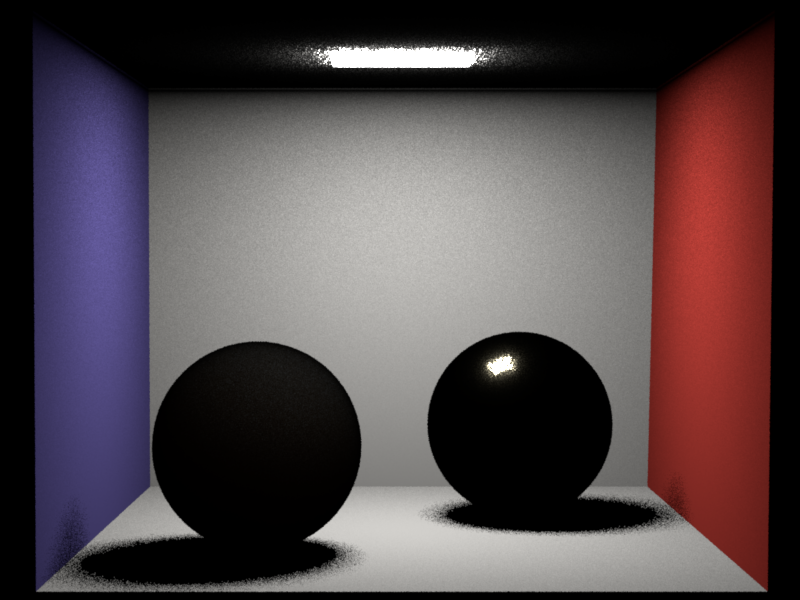
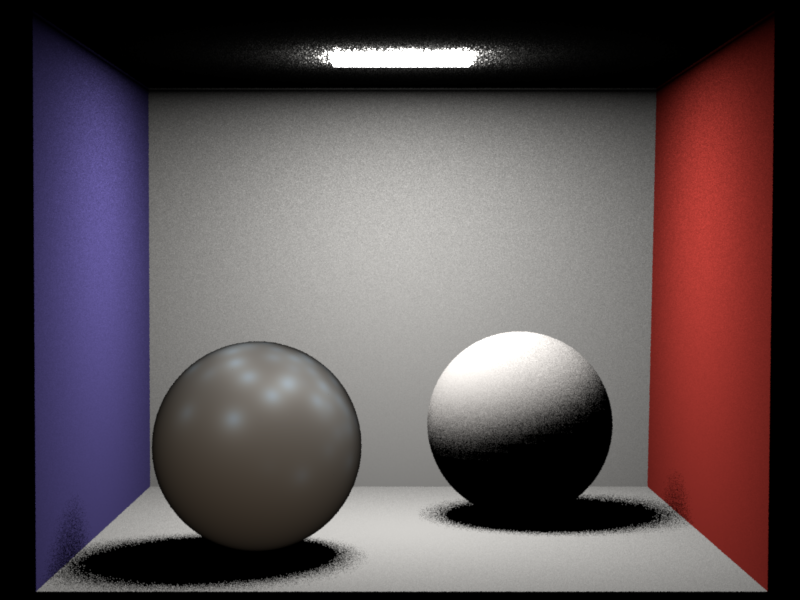
Algún día mataré a Jensen

diff --git a/src/pathtracing.cpp b/src/pathtracing.cpp
@@ -152,7 +152,7 @@ std::vector<Photon> Pth::generateSubsurfaceSamples(const Scene *scene, Sampler *
     {
         u_int32_t nTriangles = mesh->nTriangles();
 
-        for (u_int32_t i = 0; i < nTriangles; i++)
+        for (u_int32_t i = 0; i < nTriangles/10; i++)
         {
             float pdf;
             Point3f p; Normal3f n; Point2f uv;
@@ -185,28 +185,33 @@ void Pth::integrateSubsurface(const Scene *scene,
     
     int N_SAMPLES = 100;
     float photonPdf = 1.0f / photons.size();
+    int taken = 0;
+
     
-    for (int i = 0; i < N_SAMPLES; i++)
+    for (auto &photon : photons)
     {   
         // Choose random photon
-        int randomPhoton = sampler->next1D() * photons.size();
-        auto photon = photons[randomPhoton % photons.size()];
+        //int randomPhoton = sampler->next1D() * photons.size();
+        //auto photon = photons[randomPhoton % photons.size()];
 
         if (photon.radiance == Color3f(0.0f)
             || photon.mesh != state.intersection.mesh)
+            //|| (photon.p - state.intersection.p).norm() > 1.0f)
             continue;
 
         bsdfQuery.pi = photon.p;
         bsdfQuery.ni = state.intersection.toLocal(photon.n);
         bsdfQuery.wi = state.intersection.toLocal(photon.d);
         Color3f f = SSS.eval(bsdfQuery);
-        Color3f radiance = photon.radiance * f;
+        Color3f radiance = photon.radiance;
 
-        contributions += radiance;
+        contributions += radiance * f;
+        taken++;
     }
 
-    contributions = contributions / (N_SAMPLES * photonPdf);            
-    
+    contributions = contributions / (taken > 0 ? taken : 1);           
+    //contributions *= state.intersection.mesh->meshArea();
+
     state.radiance += contributions;
 }
 

diff --git a/src/subsurfaceScattering.cpp b/src/subsurfaceScattering.cpp
@@ -50,6 +50,10 @@ public:
             sigmaS = sigmaT * (1 - g);
             sigmaA = sigmaT - sigmaS;
         }
+
+        // Move mm^-1 to m^-1
+        sigmaA = sigmaA * 1.0f;
+        sigmaS = sigmaS * 1.0f;
     }
 
     /// Evaluate the BRDF model
@@ -72,9 +76,8 @@ public:
             return Color3f(0.0f);
 
         return computeMultipleScattering(bRec) 
-                * m_albedo->eval(bRec.uv) 
-                * Math::absCosTheta (bRec.wo)
-                * scale;
+                * m_albedo->eval(bRec.uv)
+                * Math::absCosTheta(bRec.wo);
     }
   
 
@@ -131,7 +134,7 @@ public:
         float r2 = Math::pow2(r);
 
         // Compute isotropic phase function
-        Color3f _sigmaS = (1 - g) * sigmaS;
+        Color3f _sigmaS = sigmaS;
         Color3f _sigmaT = _sigmaS + sigmaA;
         Color3f _alpha = _sigmaS / _sigmaT;
 
@@ -167,7 +170,8 @@ public:
         float r = (bRec.po - bRec.pi).norm();
         float eta = etaT;
 
-        Color3f Rd = betterAlternative(r);
+        Color3f Rd = dipoleDiffusionAproximation(r);
+        //std::cout << Rd.toString() + ", " + std::to_string(r) << std::endl;
 
         float cosWi = Math::absCos(bRec.wi, bRec.ni);
         float cosWo = Math::cosTheta(bRec.wo);
@@ -229,7 +233,7 @@ public:
 
     Color3f betterAlternative (float r) const
     {
-        Color3f sigmap_s = (1 - g) * sigmaS;
+        Color3f sigmap_s = sigmaS;
         Color3f sigmap_t = sigmap_s + sigmaA;
         Color3f alphap = sigmap_s / sigmap_t;
         float A = (1.0 + 3.0 * C2()) / (1.0 - 2.0 * C1());

diff --git a/plot.py b/plot.py
@@ -1,0 +1,61 @@
+import numpy as np
+import matplotlib.pyplot as plt
+import math as Math
+
+# Define the function f(r)
+def f(r):
+    eta = 1.5
+    r2 = r*r
+    sigmaS = 2.19
+    sigmaA = 0.0021
+    g = 0
+
+    # Compute isotropic phase function
+    _sigmaS = (1 - g) * sigmaS
+    _sigmaT = _sigmaS + sigmaA
+    _alpha = _sigmaS / _sigmaT
+
+    # Effective transport coefficient
+    sigmaTr = np.sqrt(3 * sigmaA * _sigmaT)
+    
+    # Aproximation for the diffuse reflectance (fresnel)
+    Fdr = (-1.440 / eta*eta) + (0.710 / eta) + 0.668 + 0.0636 * eta
+    A = (1 + Fdr) / (1 - Fdr)    # Boundary condition for the change between refraction indexes
+
+    lu = 1 / _sigmaT
+    zr = lu
+    zv = -lu * (1.0 + (4.0/3.0) * A) # Negative because it is inside the surface
+
+    dr = np.sqrt(r2 + zr*zr) 
+    dv = np.sqrt(r2 + zv*zv) 
+
+    sigmaTrDr = sigmaTr * dr
+    sigmaTrDv = sigmaTr * dv
+
+    # Compute main formula
+    C1 = zr * (1 + sigmaTrDr) * np.exp(-sigmaTrDr) / (dr*dr*dr)
+    C2 = zv * (1 + sigmaTrDv) * np.exp(-sigmaTrDv) / (dv*dv*dv)
+
+    result = _alpha * (C1 - C2) / 4*np.pi
+
+    return result
+
+
+# Create an array of r values (e.g., from 0 to 10 with 1000 points)
+r = np.linspace(0, 10, 1000)
+
+# Calculate the corresponding f(r) values
+f_r = f(r)
+
+# Plot the function
+plt.plot(r, f_r, label='f(r) = sin(r)')  # Replace label with your actual function
+
+# Add labels and title
+plt.xlabel('r')
+plt.ylabel('f(r)')
+plt.title('Plot of f(r)')
+plt.legend()
+
+# Display the plot
+plt.grid(True)
+plt.show()

diff --git a/src/whitted.cpp b/src/whitted.cpp
@@ -123,7 +123,7 @@ public:
         Color3f direct = Pth::nextEventEstimation(scene, sampler, state, wi, false, false);
 
         ph.d = wi.normalized();
-        ph.radiance = direct / ph.pdf; 
+        ph.radiance = direct; 
         ph.n = intersection.shFrame.n;
     }
 
